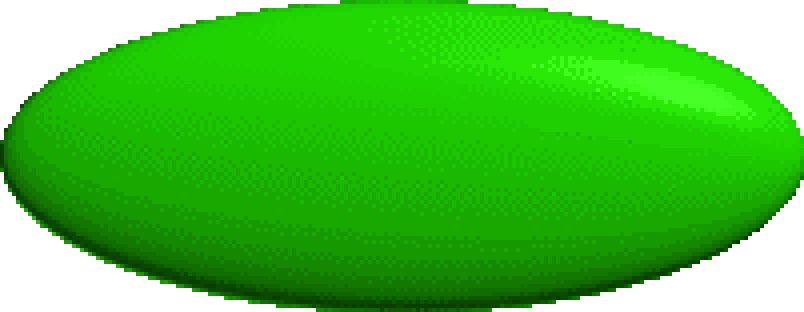
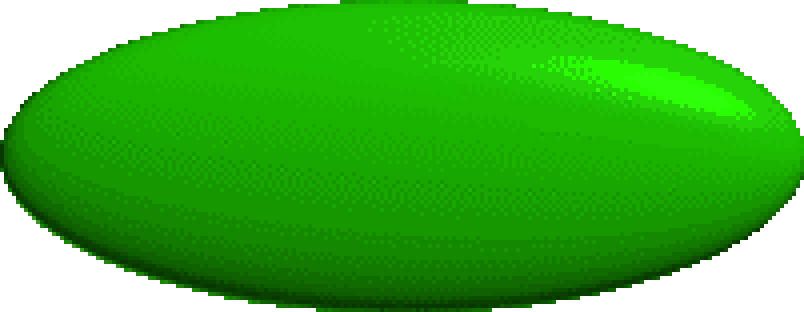
Ruler Sound, Bold Text, Animation, ect

Changed region(s): [[0.653, 0.1731, 0.9639, 0.375]]

diff --git a/css/styles.css b/css/styles.css
@@ -1,6 +1,7 @@
 p {
 
     font-family: Arial, Helvetica, sans-serif;
+    font-weight: bold;
     color:white;
     text-decoration-thickness: 5;
 
@@ -23,7 +24,25 @@ p {
   background-color: transparent;
   border: transparent;
   font-family: "comicsans";
-  
+  cursor:pointer;
+  transition: 0.05s;
 
   
+}
+
+
+.baldi:hover {
+    background-image: url('buttons/baldihover.png');
+    transform: scale(0.95)
+
+
+
+}
+
+.baldi:active
+{
+    background-image: url('buttons/baldiclick.png');
+    transform: scale(0.94)
+
+
 }

diff --git a/index.html b/index.html
@@ -6,6 +6,7 @@
         <link rel="icon" href="favicon.ico" type="image/x-icon"/>
         <link rel="shortcut icon" href="favicon.ico" type="image/x-icon"/>
         <link rel="stylesheet" href="css/styles.css">
+        <link rel="stylesheet" href="css/effects.css">
         <script src="js/modernizr-2.8.3.min.js"></script>
     </head>
 
@@ -29,7 +30,7 @@
 
         <a href="Games/BBIGAP/Downloads/bbigap021.zip" download="">
             
-        <button type="button" name="button" class ="baldi" href="Games/BBIGAP/Downloads/bbigap021.zip" download="">Download BBIGAP 0.2.1</button>
+        <button type="button" name="button" class ="baldi" href="Games/BBIGAP/Downloads/bbigap021.zip" download="" onclick="new Audio('sounds/ruler.wav').play()">Download BBIGAP 0.2.1</button>
         
         </a>
         </center>